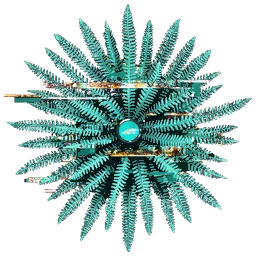
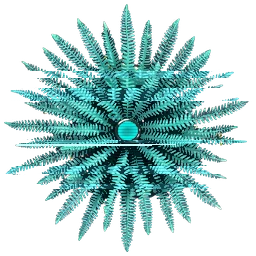
Stardust launch art batch 3: five dialogue portraits (data-registered), janitor sprite in four looks, procedural hologram glitch redo for palm and fern

diff --git a/projects/Space-Shooter/voyage/story/data/cast.js b/projects/Space-Shooter/voyage/story/data/cast.js
@@ -54,6 +54,36 @@ export const CAST_DATA = {
       "color": "#ffad72",
       "giver": true
     },
+    "tull": {
+      "name": "Captain Tull",
+      "role": "Captain of the Tin Duchess",
+      "station": "duchess",
+      "color": "#ffb23a"
+    },
+    "nessa": {
+      "name": "Nessa Calloway",
+      "role": "Pilot, Tin Duchess",
+      "station": "duchess",
+      "color": "#38e6ff"
+    },
+    "pip": {
+      "name": "Pip Rourke",
+      "role": "Engineer, Tin Duchess",
+      "station": "duchess",
+      "color": "#ffd84a"
+    },
+    "reck": {
+      "name": "Tobin Reck",
+      "role": "Gunner number seven, Tin Duchess",
+      "station": "duchess",
+      "color": "#6fb2ff"
+    },
+    "reaver": {
+      "name": "Cinder Reaver boss",
+      "role": "Raider leader, masked",
+      "station": "duchess",
+      "color": "#ff7a45"
+    },
     "narrator": {
       "name": "Relay Night",
       "role": "Late-night lane radio",
@@ -135,6 +165,31 @@ export const CAST_DATA = {
       "neutral": "cap-d-neutral.webp",
       "happy": "cap-d-happy.webp",
       "annoyed": "cap-d-annoyed.webp"
+    },
+    "tull": {
+      "neutral": "tull-neutral.webp",
+      "happy": "tull-happy.webp",
+      "annoyed": "tull-annoyed.webp"
+    },
+    "nessa": {
+      "neutral": "nessa-neutral.webp",
+      "happy": "nessa-happy.webp",
+      "annoyed": "nessa-annoyed.webp"
+    },
+    "pip": {
+      "neutral": "pip-neutral.webp",
+      "happy": "pip-happy.webp",
+      "annoyed": "pip-annoyed.webp"
+    },
+    "reck": {
+      "neutral": "reck-neutral.webp",
+      "happy": "reck-happy.webp",
+      "annoyed": "reck-neutral.webp"
+    },
+    "reaver": {
+      "neutral": "reaver-neutral.webp",
+      "happy": "reaver-neutral.webp",
+      "annoyed": "reaver-annoyed.webp"
     }
   }
 };
